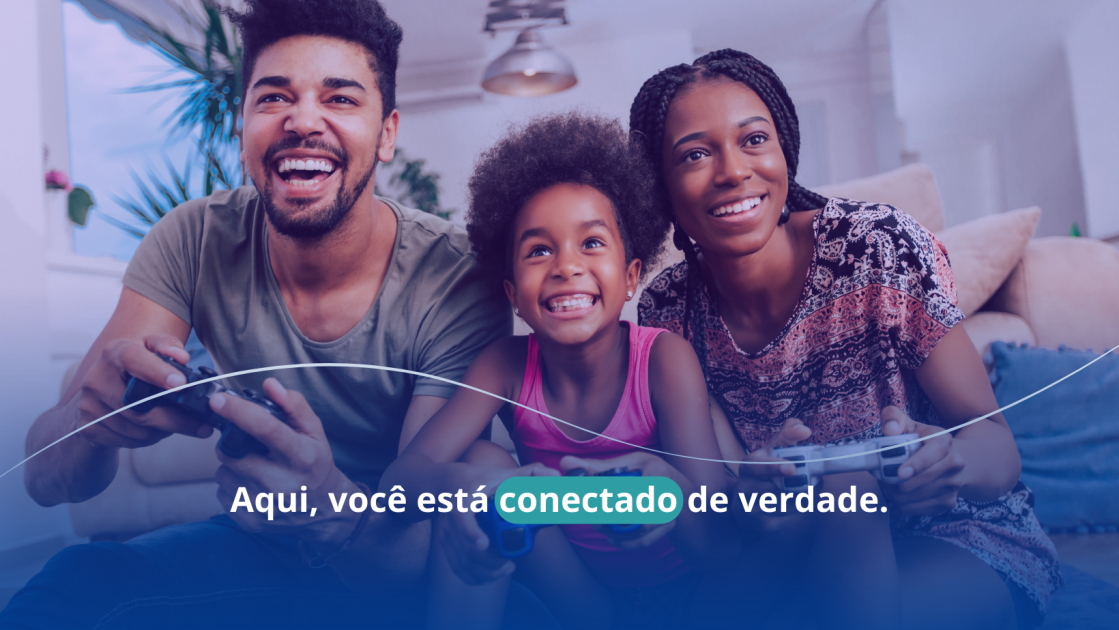
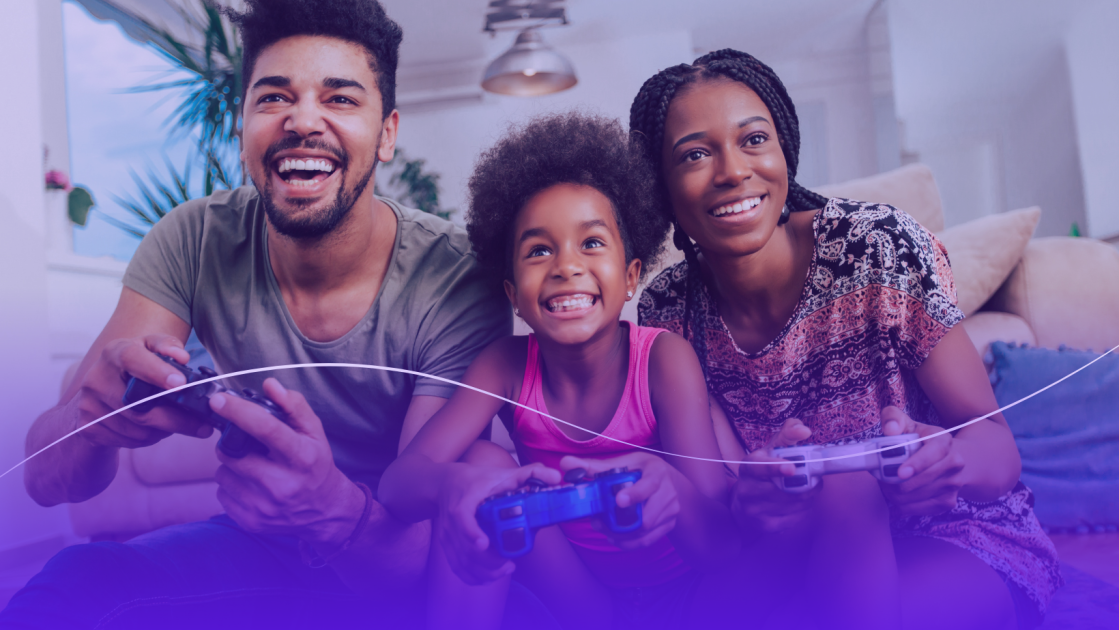
Ajuste nos dados e layout da página Offers

diff --git a/src/pages/Offers.tsx b/src/pages/Offers.tsx
@@ -1,6 +1,6 @@
 import Navbar from "../components/Navbar";
 import Footer from "../components/Footer";
-import { Content } from "../styles/Offers";
+import { Content, ButtonBack, Info } from "../styles/Offers";
 import Cards from "../components/Cards";
 import offers from "../data/offers.json";
 import { useContext } from "react";
@@ -9,7 +9,6 @@ import { useNavigate } from "react-router-dom";
 import Address from "../components/Address";
 
 export default function Offers() {
-
   const { setAddress } = useContext(UserContext);
   const navigate = useNavigate();
   function handleInfo() {
@@ -30,14 +29,17 @@ export default function Offers() {
   return (
     <>
       <Navbar />
-      <Address />
-      <Content>
-      {offers.map((offer, index) => (
+      <Info>
+        <Address />
+        <Content>
+          {offers.map((offer, index) => (
             <Cards key={index} offer={offer} />
           ))}
-      </Content>
-      <button onClick={handleInfo}>Ops, errei meu cep!</button>
+        </Content>
+        <ButtonBack onClick={handleInfo}>Ops, errei meu cep!</ButtonBack>
+      </Info>
+
       <Footer />
     </>
   );
-};
+}

diff --git a/src/styles/Offers.ts b/src/styles/Offers.ts
@@ -1,8 +1,12 @@
 import styled from "styled-components";
+import image from "../assets/background.png";
 
 export const Content = styled.div`
   min-height: 80vh;
-background-color: #F7F7F7;
+  display: flex;
+  flex-direction: row;
+  justify-content: center;
+  align-items: center;
   .title {
     display: flex;
     flex-direction: column;
@@ -18,4 +22,24 @@ background-color: #F7F7F7;
   p {
     font-size: 18px;
   }
-;`
+`;
+
+export const ButtonBack = styled.button`
+  width: 200px;
+  height: 60px;
+  border-radius: 10px;
+  background-color: #e09158;
+  color: #fff;
+  font-weight: bold;
+  margin-bottom: 30px;
+  float: right;
+  margin-right: 20px;
+`;
+
+export const Info = styled.div`
+ background-image: url(${image});
+  background-size: cover;
+  background-repeat: no-repeat;
+  width: 100%;
+  height: 110vh;
+`;

diff --git a/src/components/Address.tsx b/src/components/Address.tsx
@@ -6,7 +6,7 @@ const Address = () => {
   const { address } = useContext(UserContext);
   const addressInfos = [
     { label: "Estado", value: address.uf },
-    { label: "Localidade", value: address.localidade },
+    { label: "Cidade", value: address.localidade },
     { label: "Bairro", value: address.bairro },
     { label: "Logradouro", value: address.logradouro },
     { label: "Complemento", value: address.complemento },
@@ -15,15 +15,13 @@ const Address = () => {
 
   return (
     <Section>
-      <h1>Endereço</h1>
-      <section>
+      <h1>Seus dados:</h1>
         {addressInfos.map((item, index) => (
           <div key={index}>
             <p>{item.label}</p>
             <span>{item.value ? item.value : "Não encontrado"}</span>
           </div>
         ))}
-      </section>
     </Section>
   );
 }

diff --git a/src/styles/Cards.ts b/src/styles/Cards.ts
@@ -1,14 +1,18 @@
 import styled from "styled-components";
 
-export const Container = styled.div`width: 350px;
+export const Card = styled.div`width: 350px;
 height: 600px;
 background-color: #fff;
 border-radius: 15px;
 box-shadow: 1px 3px 8px rgba(0, 0, 0, 0.5);
 margin-left: 20px;
-background-color: #003F92;
+background-color: #fff;
+display: flex;
+flex-direction: column;
+justify-content: center;
+align-items: center;
 p {
-    color: #fff;
+    color: #000;
     font-size: 20px;
     margin-bottom: 10px;
 }
@@ -16,3 +20,14 @@ h1 {
     color: #000000;
 }
 `;
+
+export const Content = styled.div`
+display: flex;
+width: 100%;
+height: 100%;
+flex-direction: row;
+justify-content: space-around;
+align-items: center;
+flex-wrap: wrap;
+
+`

diff --git a/src/components/Cards.tsx b/src/components/Cards.tsx
@@ -1,13 +1,20 @@
 import { Props } from "../models/Props";
-import { Container } from "../styles/Cards";
+import { Card, Content } from "../styles/Cards";
+import {BiCheckCircle} from "react-icons/bi"
 
 export default function Cards ({ offer } : Props) {
   return (
-    <Container>
+    <Content>
+      <Card>
       <p>{offer.title}</p>
       <h1>{offer.plan}</h1>
-      <h1>{offer.info}</h1>
+      <p><BiCheckCircle />{offer.info}</p>
+      <p>{offer.info2}</p>
+      <p>{offer.info3}</p>
+      <p>{offer.info4}</p>
       <h1>{offer.price}</h1>
-    </Container>
+    </Card>
+    </Content>
+
   );
 };

diff --git a/src/styles/Modal.ts b/src/styles/Modal.ts
@@ -16,22 +16,24 @@ background-color: transparent;
 
 
 export const Container = styled.div`  
-height: 30vh;
-  width: 50vh;
+height: 35vh;
+  width: 60vh;
   margin: 0 auto;
   display: flex;
   justify-content: center;
   align-items: center;
   flex-direction: column;
   background-size: cover;
-  background-color: #003f92;
+  background-color: #fff;
   border-radius: 20px;
   margin-left: 50px;
+  margin-top: 50px;
+  box-shadow: 1px 3px 8px rgba(0, 0, 0, 0.5);
   h1 {
-    color: #fff;
+    color: #003f92;
   }
   p {
-    color: #fff;
+    color: #003f92;
     margin-top: 10px;
   }
 

diff --git a/src/styles/Adress.ts b/src/styles/Adress.ts
@@ -1,11 +1,13 @@
 import styled from "styled-components";
 
 export const Section = styled.section`
-h1 {
-  padding: 15px;
+p, span{
+  padding: 10px;
 }
-  section {
+    background-color: antiquewhite;
     display: flex;
-    flex-wrap: wrap;
-  }
+    width: auto;
+    height: auto;
+    margin-bottom: 15px;
+    padding: 30px;
 `;

diff --git a/src/models/Props.ts b/src/models/Props.ts
@@ -3,6 +3,9 @@ export interface Props {
     title: string;
     plan: string;
     info: string;
+    info2: string;
+    info3: string;
+    info4: string;
     price: string;
   };
 }
